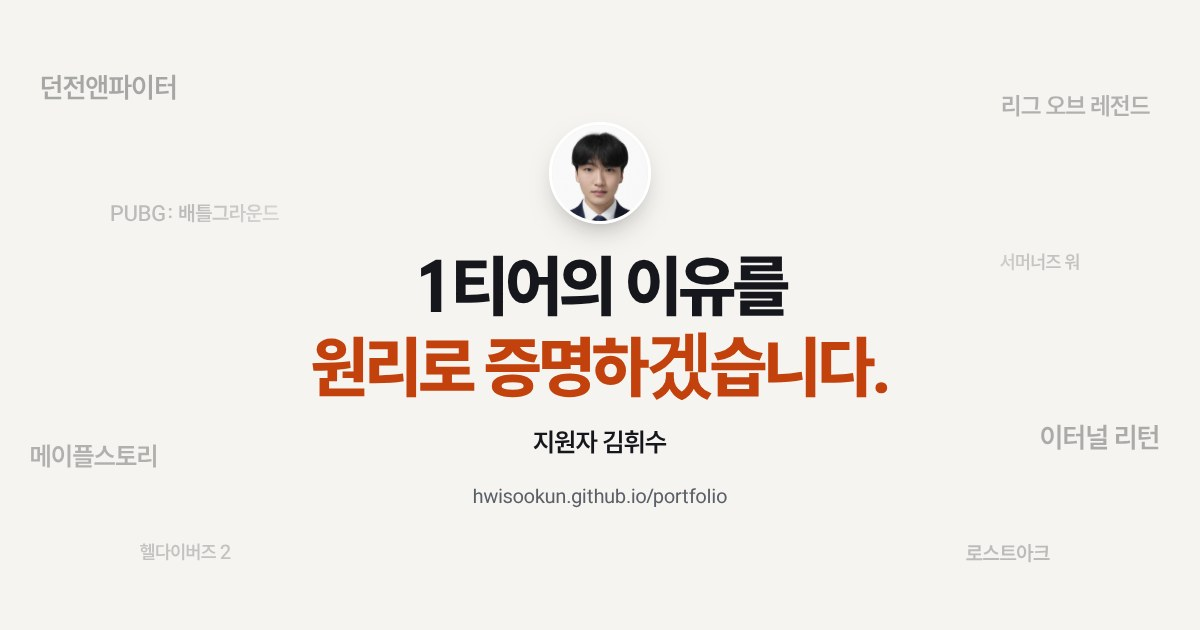
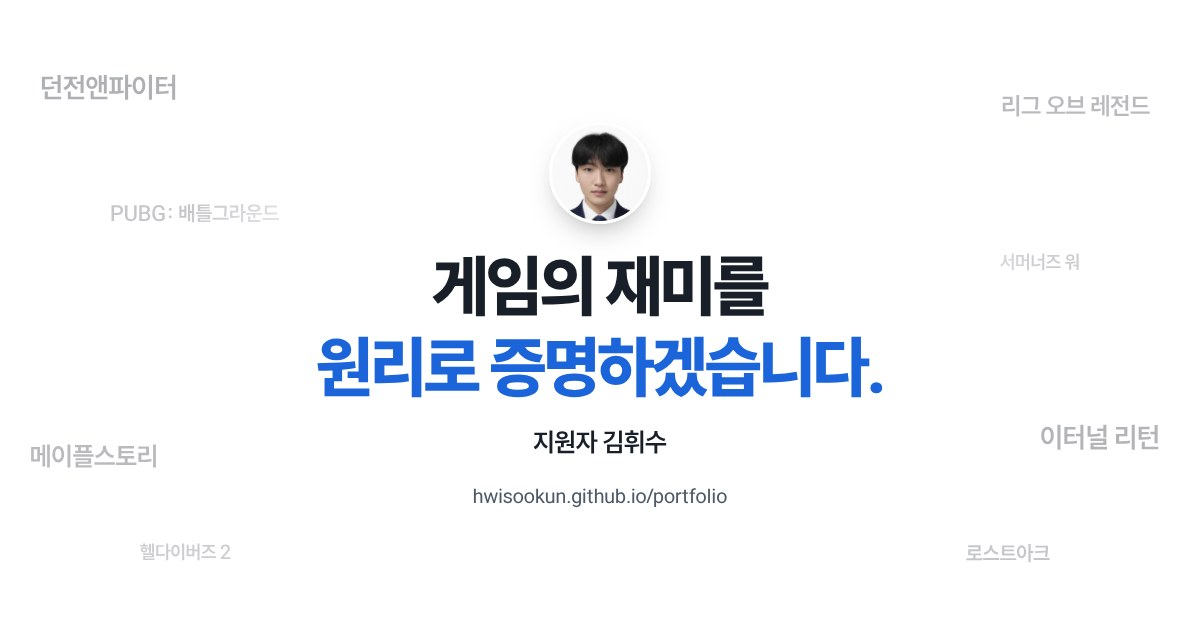
Headline: 게임의 재미를 원리로 증명하겠습니다; view buttons on the stat card
- Played games card links to the games list, work-style card to the AI experience page
- Link preview image redrawn with the new headline and current colours

Claude-Session: https://claude.ai/code/session_01EnYStUjx6n93kraUj9WXyV

Changed region(s): [[0.2467, 0.3921, 0.74, 0.6333]]

diff --git a/index.html b/index.html
@@ -4,12 +4,12 @@
 <meta charset="utf-8">
 <meta name="viewport" content="width=device-width,initial-scale=1">
 <title>김휘수 | 포트폴리오</title>
-<meta name="description" content="1티어의 이유를 원리로 증명하겠습니다. 지원자 김휘수의 포트폴리오">
+<meta name="description" content="게임의 재미를 원리로 증명하겠습니다. 지원자 김휘수의 포트폴리오">
 <link rel="icon" href="assets/favicon.svg" type="image/svg+xml">
 <meta property="og:type" content="website">
 <meta property="og:site_name" content="김휘수 포트폴리오">
 <meta property="og:title" content="김휘수 | 포트폴리오">
-<meta property="og:description" content="1티어의 이유를 원리로 증명하겠습니다. 지원자 김휘수의 포트폴리오">
+<meta property="og:description" content="게임의 재미를 원리로 증명하겠습니다. 지원자 김휘수의 포트폴리오">
 <meta property="og:url" content="https://hwisookun.github.io/portfolio/">
 <meta property="og:image" content="https://hwisookun.github.io/portfolio/assets/og.jpg">
 <meta property="og:image:width" content="1200">
@@ -319,6 +319,13 @@ footer{padding:22px 0;background:var(--hud);border-top:1px solid var(--hud-line)
 .stats .big{color:var(--accent);font-size:40px}
 .stats>li.tools{background:#F5F6F8}
 .tl{color:var(--ink)}
+.srow{display:flex;align-items:center;justify-content:space-between;gap:12px}
+.stats a.mini{display:inline-flex;align-items:center;gap:6px;width:max-content;margin-top:14px;padding:9px 14px;border-radius:12px;background:#fff;color:var(--accent);font-size:15px;font-weight:700;text-decoration:none;transition:background .15s,transform .15s}
+.srow a.mini{margin-top:0}
+.stats a.mini:hover{background:var(--accent);color:#fff}
+.stats a.mini:active{transform:scale(.97)}
+.stats a.mini:focus-visible{outline:2px solid var(--accent);outline-offset:2px}
+
 .tl{display:flex;flex-wrap:wrap;gap:10px 18px}
 .tl li{display:flex;align-items:center;gap:8px;white-space:nowrap}
 .tl i{flex:none;display:grid;place-items:center;width:28px;height:28px;border-radius:8px;background:color-mix(in srgb,var(--c) 13%,#fff)}
@@ -371,7 +378,7 @@ a.proj:hover .go{background:var(--ink)}
   <div class="wrap">
     <div class="hero-center">
       <figure class="avatar" aria-label="프로필 사진" style="margin-top:0"><img src="assets/profile.jpg" alt="김휘수 프로필 사진" onerror="this.parentNode.remove()"></figure>
-      <h1>1티어의 이유를<br><span class="hl">원리로 증명하겠습니다.</span></h1>
+      <h1>게임의 재미를<br><span class="hl">원리로 증명하겠습니다.</span></h1>
       <p class="who">지원자 김휘수</p>
       <p class="lead">숫자 뒤의 원리를 찾고, 근거 없는 값은 가정으로 따로 표시합니다.</p>
       <div class="btns">
@@ -395,8 +402,8 @@ a.proj:hover .go{background:var(--ink)}
       <ul class="stats">
         <li><small>가치관</small><b>규칙을 만들고<br><em>수식으로 검증</em></b></li>
         <li><small>대표 프로젝트</small><b>칠흑의 정화<br>쿨타임 감소 역기획서</b></li>
-        <li><small>플레이한 게임</small><span class="big" data-to="515">515</span><b style="display:inline;font-size:18px"> 개</b></li>
-        <li><small>일하는 방식</small><b>AI는 빠른 손,<br><em>판단과 검증은 직접</em></b></li>
+        <li><small>플레이한 게임</small><div class="srow"><span><span class="big" data-to="515">515</span><b style="display:inline;font-size:18px"> 개</b></span><a class="mini" href="#games">보기 <span aria-hidden="true">→</span></a></div></li>
+        <li><small>일하는 방식</small><b>AI는 빠른 손,<br><em>판단과 검증은 직접</em></b><a class="mini" href="ai-experience.html">AI 활용 경험 보기 <span aria-hidden="true">→</span></a></li>
         <li><small>강점</small><b>왜 이건지 한 번 더<br><em>생각해 보는 신중함</em></b></li>
         <li class="tools"><small>도구</small><ul class="tl"><li style="--c:#D97757"><i><svg aria-hidden="true" viewBox="0 0 24 24" xmlns="http://www.w3.org/2000/svg"><path d="m4.7144 15.9555 4.7174-2.6471.079-.2307-.079-.1275h-.2307l-.7893-.0486-2.6956-.0729-2.3375-.0971-2.2646-.1214-.5707-.1215-.5343-.7042.0546-.3522.4797-.3218.686.0608 1.5179.1032 2.2767.1578 1.6514.0972 2.4468.255h.3886l.0546-.1579-.1336-.0971-.1032-.0972L6.973 9.8356l-2.55-1.6879-1.3356-.9714-.7225-.4918-.3643-.4614-.1578-1.0078.6557-.7225.8803.0607.2246.0607.8925.686 1.9064 1.4754 2.4893 1.8336.3643.3035.1457-.1032.0182-.0728-.164-.2733-1.3539-2.4467-1.445-2.4893-.6435-1.032-.17-.6194c-.0607-.255-.1032-.4674-.1032-.7285L6.287.1335 6.6997 0l.9957.1336.419.3642.6192 1.4147 1.0018 2.2282 1.5543 3.0296.4553.8985.2429.8318.091.255h.1579v-.1457l.1275-1.706.2368-2.0947.2307-2.6957.0789-.7589.3764-.9107.7468-.4918.5828.2793.4797.686-.0668.4433-.2853 1.8517-.5586 2.9021-.3643 1.9429h.2125l.2429-.2429.9835-1.3053 1.6514-2.0643.7286-.8196.85-.9046.5464-.4311h1.0321l.759 1.1293-.34 1.1657-1.0625 1.3478-.8804 1.1414-1.2628 1.7-.7893 1.36.0729.1093.1882-.0183 2.8535-.607 1.5421-.2794 1.8396-.3157.8318.3886.091.3946-.3278.8075-1.967.4857-2.3072.4614-3.4364.8136-.0425.0304.0486.0607 1.5482.1457.6618.0364h1.621l3.0175.2247.7892.522.4736.6376-.079.4857-1.2142.6193-1.6393-.3886-3.825-.9107-1.3113-.3279h-.1822v.1093l1.0929 1.0686 2.0035 1.8092 2.5075 2.3314.1275.5768-.3218.4554-.34-.0486-2.2039-1.6575-.85-.7468-1.9246-1.621h-.1275v.17l.4432.6496 2.3436 3.5214.1214 1.0807-.17.3521-.6071.2125-.6679-.1214-1.3721-1.9246L14.38 17.959l-1.1414-1.9428-.1397.079-.674 7.2552-.3156.3703-.7286.2793-.6071-.4614-.3218-.7468.3218-1.4753.3886-1.9246.3157-1.53.2853-1.9004.17-.6314-.0121-.0425-.1397.0182-1.4328 1.9672-2.1796 2.9446-1.7243 1.8456-.4128.164-.7164-.3704.0667-.6618.4008-.5889 2.386-3.0357 1.4389-1.882.929-1.0868-.0062-.1579h-.0546l-6.3385 4.1164-1.1293.1457-.4857-.4554.0608-.7467.2307-.2429 1.9064-1.3114Z"/></svg></i>Claude</li><li style="--c:#D97757"><i><svg aria-hidden="true" viewBox="0 0 24 24" xmlns="http://www.w3.org/2000/svg"><path d="m4.7144 15.9555 4.7174-2.6471.079-.2307-.079-.1275h-.2307l-.7893-.0486-2.6956-.0729-2.3375-.0971-2.2646-.1214-.5707-.1215-.5343-.7042.0546-.3522.4797-.3218.686.0608 1.5179.1032 2.2767.1578 1.6514.0972 2.4468.255h.3886l.0546-.1579-.1336-.0971-.1032-.0972L6.973 9.8356l-2.55-1.6879-1.3356-.9714-.7225-.4918-.3643-.4614-.1578-1.0078.6557-.7225.8803.0607.2246.0607.8925.686 1.9064 1.4754 2.4893 1.8336.3643.3035.1457-.1032.0182-.0728-.164-.2733-1.3539-2.4467-1.445-2.4893-.6435-1.032-.17-.6194c-.0607-.255-.1032-.4674-.1032-.7285L6.287.1335 6.6997 0l.9957.1336.419.3642.6192 1.4147 1.0018 2.2282 1.5543 3.0296.4553.8985.2429.8318.091.255h.1579v-.1457l.1275-1.706.2368-2.0947.2307-2.6957.0789-.7589.3764-.9107.7468-.4918.5828.2793.4797.686-.0668.4433-.2853 1.8517-.5586 2.9021-.3643 1.9429h.2125l.2429-.2429.9835-1.3053 1.6514-2.0643.7286-.8196.85-.9046.5464-.4311h1.0321l.759 1.1293-.34 1.1657-1.0625 1.3478-.8804 1.1414-1.2628 1.7-.7893 1.36.0729.1093.1882-.0183 2.8535-.607 1.5421-.2794 1.8396-.3157.8318.3886.091.3946-.3278.8075-1.967.4857-2.3072.4614-3.4364.8136-.0425.0304.0486.0607 1.5482.1457.6618.0364h1.621l3.0175.2247.7892.522.4736.6376-.079.4857-1.2142.6193-1.6393-.3886-3.825-.9107-1.3113-.3279h-.1822v.1093l1.0929 1.0686 2.0035 1.8092 2.5075 2.3314.1275.5768-.3218.4554-.34-.0486-2.2039-1.6575-.85-.7468-1.9246-1.621h-.1275v.17l.4432.6496 2.3436 3.5214.1214 1.0807-.17.3521-.6071.2125-.6679-.1214-1.3721-1.9246L14.38 17.959l-1.1414-1.9428-.1397.079-.674 7.2552-.3156.3703-.7286.2793-.6071-.4614-.3218-.7468.3218-1.4753.3886-1.9246.3157-1.53.2853-1.9004.17-.6314-.0121-.0425-.1397.0182-1.4328 1.9672-2.1796 2.9446-1.7243 1.8456-.4128.164-.7164-.3704.0667-.6618.4008-.5889 2.386-3.0357 1.4389-1.882.929-1.0868-.0062-.1579h-.0546l-6.3385 4.1164-1.1293.1457-.4857-.4554.0608-.7467.2307-.2429 1.9064-1.3114Z"/></svg></i>Claude Code</li><li style="--c:#D97757"><i><svg aria-hidden="true" viewBox="0 0 24 24" xmlns="http://www.w3.org/2000/svg"><path d="m4.7144 15.9555 4.7174-2.6471.079-.2307-.079-.1275h-.2307l-.7893-.0486-2.6956-.0729-2.3375-.0971-2.2646-.1214-.5707-.1215-.5343-.7042.0546-.3522.4797-.3218.686.0608 1.5179.1032 2.2767.1578 1.6514.0972 2.4468.255h.3886l.0546-.1579-.1336-.0971-.1032-.0972L6.973 9.8356l-2.55-1.6879-1.3356-.9714-.7225-.4918-.3643-.4614-.1578-1.0078.6557-.7225.8803.0607.2246.0607.8925.686 1.9064 1.4754 2.4893 1.8336.3643.3035.1457-.1032.0182-.0728-.164-.2733-1.3539-2.4467-1.445-2.4893-.6435-1.032-.17-.6194c-.0607-.255-.1032-.4674-.1032-.7285L6.287.1335 6.6997 0l.9957.1336.419.3642.6192 1.4147 1.0018 2.2282 1.5543 3.0296.4553.8985.2429.8318.091.255h.1579v-.1457l.1275-1.706.2368-2.0947.2307-2.6957.0789-.7589.3764-.9107.7468-.4918.5828.2793.4797.686-.0668.4433-.2853 1.8517-.5586 2.9021-.3643 1.9429h.2125l.2429-.2429.9835-1.3053 1.6514-2.0643.7286-.8196.85-.9046.5464-.4311h1.0321l.759 1.1293-.34 1.1657-1.0625 1.3478-.8804 1.1414-1.2628 1.7-.7893 1.36.0729.1093.1882-.0183 2.8535-.607 1.5421-.2794 1.8396-.3157.8318.3886.091.3946-.3278.8075-1.967.4857-2.3072.4614-3.4364.8136-.0425.0304.0486.0607 1.5482.1457.6618.0364h1.621l3.0175.2247.7892.522.4736.6376-.079.4857-1.2142.6193-1.6393-.3886-3.825-.9107-1.3113-.3279h-.1822v.1093l1.0929 1.0686 2.0035 1.8092 2.5075 2.3314.1275.5768-.3218.4554-.34-.0486-2.2039-1.6575-.85-.7468-1.9246-1.621h-.1275v.17l.4432.6496 2.3436 3.5214.1214 1.0807-.17.3521-.6071.2125-.6679-.1214-1.3721-1.9246L14.38 17.959l-1.1414-1.9428-.1397.079-.674 7.2552-.3156.3703-.7286.2793-.6071-.4614-.3218-.7468.3218-1.4753.3886-1.9246.3157-1.53.2853-1.9004.17-.6314-.0121-.0425-.1397.0182-1.4328 1.9672-2.1796 2.9446-1.7243 1.8456-.4128.164-.7164-.3704.0667-.6618.4008-.5889 2.386-3.0357 1.4389-1.882.929-1.0868-.0062-.1579h-.0546l-6.3385 4.1164-1.1293.1457-.4857-.4554.0608-.7467.2307-.2429 1.9064-1.3114Z"/></svg></i>Claude Design</li><li style="--c:#217346"><i><b>X</b></i>Excel</li><li style="--c:#F24E1E"><i><svg aria-hidden="true" viewBox="0 0 24 24" xmlns="http://www.w3.org/2000/svg"><path d="M15.852 8.981h-4.588V0h4.588c2.476 0 4.49 2.014 4.49 4.49s-2.014 4.491-4.49 4.491zM12.735 7.51h3.117c1.665 0 3.019-1.355 3.019-3.019s-1.355-3.019-3.019-3.019h-3.117V7.51zm0 1.471H8.148c-2.476 0-4.49-2.014-4.49-4.49S5.672 0 8.148 0h4.588v8.981zm-4.587-7.51c-1.665 0-3.019 1.355-3.019 3.019s1.354 3.02 3.019 3.02h3.117V1.471H8.148zm4.587 15.019H8.148c-2.476 0-4.49-2.014-4.49-4.49s2.014-4.49 4.49-4.49h4.588v8.98zM8.148 8.981c-1.665 0-3.019 1.355-3.019 3.019s1.355 3.019 3.019 3.019h3.117V8.981H8.148zM8.172 24c-2.489 0-4.515-2.014-4.515-4.49s2.014-4.49 4.49-4.49h4.588v4.441c0 2.503-2.047 4.539-4.563 4.539zm-.024-7.51a3.023 3.023 0 0 0-3.019 3.019c0 1.665 1.365 3.019 3.044 3.019 1.705 0 3.093-1.376 3.093-3.068v-2.97H8.148zm7.704 0h-.098c-2.476 0-4.49-2.014-4.49-4.49s2.014-4.49 4.49-4.49h.098c2.476 0 4.49 2.014 4.49 4.49s-2.014 4.49-4.49 4.49zm-.097-7.509c-1.665 0-3.019 1.355-3.019 3.019s1.355 3.019 3.019 3.019h.098c1.665 0 3.019-1.355 3.019-3.019s-1.355-3.019-3.019-3.019h-.098z"/></svg></i>Figma</li><li style="--c:#0E1128"><i><svg aria-hidden="true" viewBox="0 0 24 24" xmlns="http://www.w3.org/2000/svg"><path d="M12 0a12 12 0 1012 12A12 12 0 0012 0zm0 23.52A11.52 11.52 0 1123.52 12 11.52 11.52 0 0112 23.52zm7.13-9.791c-.206.997-1.126 3.557-4.06 4.942l-1.179-1.325-1.988 2a7.338 7.338 0 01-5.804-2.978 2.859 2.859 0 00.65.123c.326.006.678-.114.678-.66v-5.394a.89.89 0 00-1.116-.89c-.92.212-1.656 2.509-1.656 2.509a7.304 7.304 0 012.528-5.597 7.408 7.408 0 013.73-1.721c-1.006.573-1.57 1.507-1.57 2.29 0 1.262.76 1.109.984.923v7.28a1.157 1.157 0 00.148.256 1.075 1.075 0 00.88.445c.76 0 1.747-.868 1.747-.868V9.172c0-.6-.452-1.324-.905-1.572 0 0 .838-.149 1.484.346a5.537 5.537 0 01.387-.425c1.508-1.48 2.929-1.902 4.112-2.112 0 0-2.151 1.69-2.151 3.96 0 1.687.043 5.801.043 5.801.799.771 1.986-.342 3.059-1.441Z"/></svg></i>Unreal Engine 5</li><li style="--c:#E87D0D"><i><svg aria-hidden="true" viewBox="0 0 24 24" xmlns="http://www.w3.org/2000/svg"><path d="M12.51 13.214c.046-.8.438-1.506 1.03-2.006a3.424 3.424 0 0 1 2.212-.79c.85 0 1.631.3 2.211.79.592.5.983 1.206 1.028 2.005.045.823-.285 1.586-.865 2.153a3.389 3.389 0 0 1-2.374.938 3.393 3.393 0 0 1-2.376-.938c-.58-.567-.91-1.33-.865-2.152M7.35 14.831c.006.314.106.922.256 1.398a7.372 7.372 0 0 0 1.593 2.757 8.227 8.227 0 0 0 2.787 2.001 8.947 8.947 0 0 0 3.66.76 8.964 8.964 0 0 0 3.657-.772 8.285 8.285 0 0 0 2.785-2.01 7.428 7.428 0 0 0 1.592-2.762 6.964 6.964 0 0 0 .25-3.074 7.123 7.123 0 0 0-1.016-2.779 7.764 7.764 0 0 0-1.852-2.043h.002L13.566 2.55l-.02-.015c-.492-.378-1.319-.376-1.86.002-.547.382-.609 1.015-.123 1.415l-.001.001 3.126 2.543-9.53.01h-.013c-.788.001-1.545.518-1.695 1.172-.154.665.38 1.217 1.2 1.22V8.9l4.83-.01-8.62 6.617-.034.025c-.813.622-1.075 1.658-.563 2.313.52.667 1.625.668 2.447.004L7.414 14s-.069.52-.063.831zm12.09 1.741c-.97.988-2.326 1.548-3.795 1.55-1.47.004-2.827-.552-3.797-1.538a4.51 4.51 0 0 1-1.036-1.622 4.282 4.282 0 0 1 .282-3.519 4.702 4.702 0 0 1 1.153-1.371c.942-.768 2.141-1.183 3.396-1.185 1.256-.002 2.455.41 3.398 1.175.48.391.87.854 1.152 1.367a4.28 4.28 0 0 1 .522 1.706 4.236 4.236 0 0 1-.239 1.811 4.54 4.54 0 0 1-1.035 1.626"/></svg></i>Blender</li></ul></li>
       </ul>
